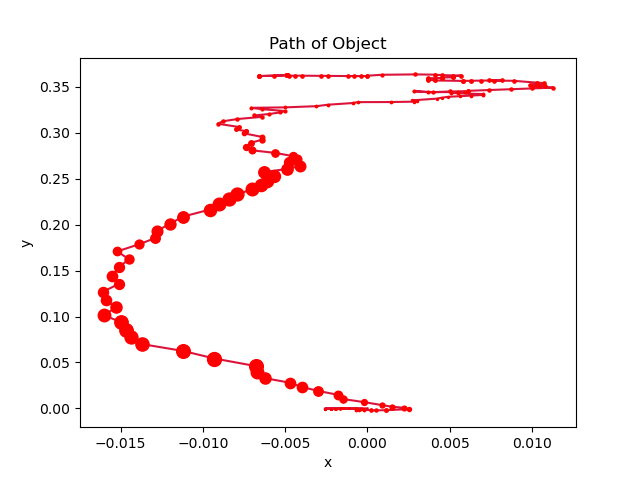
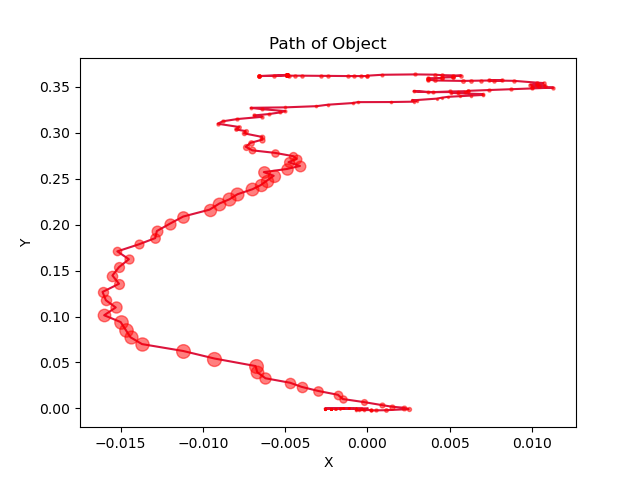
made plots prettier, streamlined code a little

diff --git a/asterisk_3_objectPathPlot.py b/asterisk_3_objectPathPlot.py
@@ -9,10 +9,23 @@ TODO: what to do about combining multiple trials of a single direction? Should t
 """
 
 import csv
-import pandas as pd
 import numpy as np
+import pandas as pd
+import math as m
 import asterisk_0_prompts as prompts
 import matplotlib.pyplot as plt
+
+
+#from: https://realpython.com/python-rounding/
+def round_half_up(n, decimals=0):
+    multiplier = 10 ** decimals
+    return m.floor(n*multiplier + 0.5) / multiplier
+
+#from: https://realpython.com/python-rounding/
+def round_half_down(n, decimals=0):
+    multiplier = 10 ** decimals
+    return m.ceil(n*multiplier - 0.5) / multiplier
+
 
 def get_data(path_to_data):
     df = pd.read_csv(total_path, 
@@ -32,30 +45,28 @@ def plot_data(df):
     data_y = pd.Series.to_list(df["f_y"])
     theta = pd.Series.to_list(df["f_rot_mag"])
 
-    #plt.plot(data_x, data_y, marker='o', markersize=theta)
-    max_x = 0
-    max_y = 0
-    min_x = 0
     plt.plot(data_x, data_y, color='crimson', label='trajectory')
 
     #plot data points separately to show angle error with marker size
     for n in range(len(data_x)):
-        max_x = max(data_x[n], max_x)
-        max_y = max(data_y[n], max_y)
-
-        min_x = min(data_x[n], min_x)
-        plt.plot(data_x[n], data_y[n], 'r.', markersize=5*theta[n])
+        plt.plot(data_x[n], data_y[n], 'r.', alpha=0.5, markersize=5*theta[n]) #rn having difficulty doing marker size in a batch, so plotting each point separately 
+    
+    max_x = max(data_x)
+    max_y = max(data_y)
+    min_x = min(data_x)
+    #plt.scatter(data_x, data_y, marker='o', color='red', alpha=0.5, s=5*theta)
 
     print(f"max_x: {max_x}, min_x: {min_x}, y: {max_y}")
 
-    plt.xlabel('x path')
-    plt.ylabel('y path')
+    plt.xlabel('X')
+    plt.ylabel('Y')
     plt.title('Path of Object')
     #plt.grid()
     plt.savefig(file_name + "plotted")
 
-    plt.xticks(np.linspace(min_x, max_x, 10), rotation=45 )
-    plt.yticks(np.linspace(0, max_y, 10) )
+    
+    plt.xticks(np.linspace(round_half_down(min_x, decimals=2), round_half_up(max_x, decimals=2), 10), rotation=30)
+    plt.yticks(np.linspace(0, round_half_up(max_y, decimals=2), 10))
 
     #plt.xlim(0., 0.5)
     #plt.ylim(0., 0.5)
@@ -64,6 +75,7 @@ def plot_data(df):
 
 if __name__ == "__main__":
     folder_path = "filtered/"
+    #TODO: Add a prompt for plotting different data
     file_name = "filt_" + "josh_2v2_a_none_1" 
     total_path = folder_path + file_name + ".csv"
     print(total_path)

diff --git a/asterisk_3_radarPlots.py b/asterisk_3_radarPlots.py
@@ -10,3 +10,4 @@ import numpy as np
 import asterisk_0_prompts as prompts
 
 #TODO: See: https://matplotlib.org/3.1.0/gallery/specialty_plots/radar_chart.html
+#TODO: Handle combining data here
